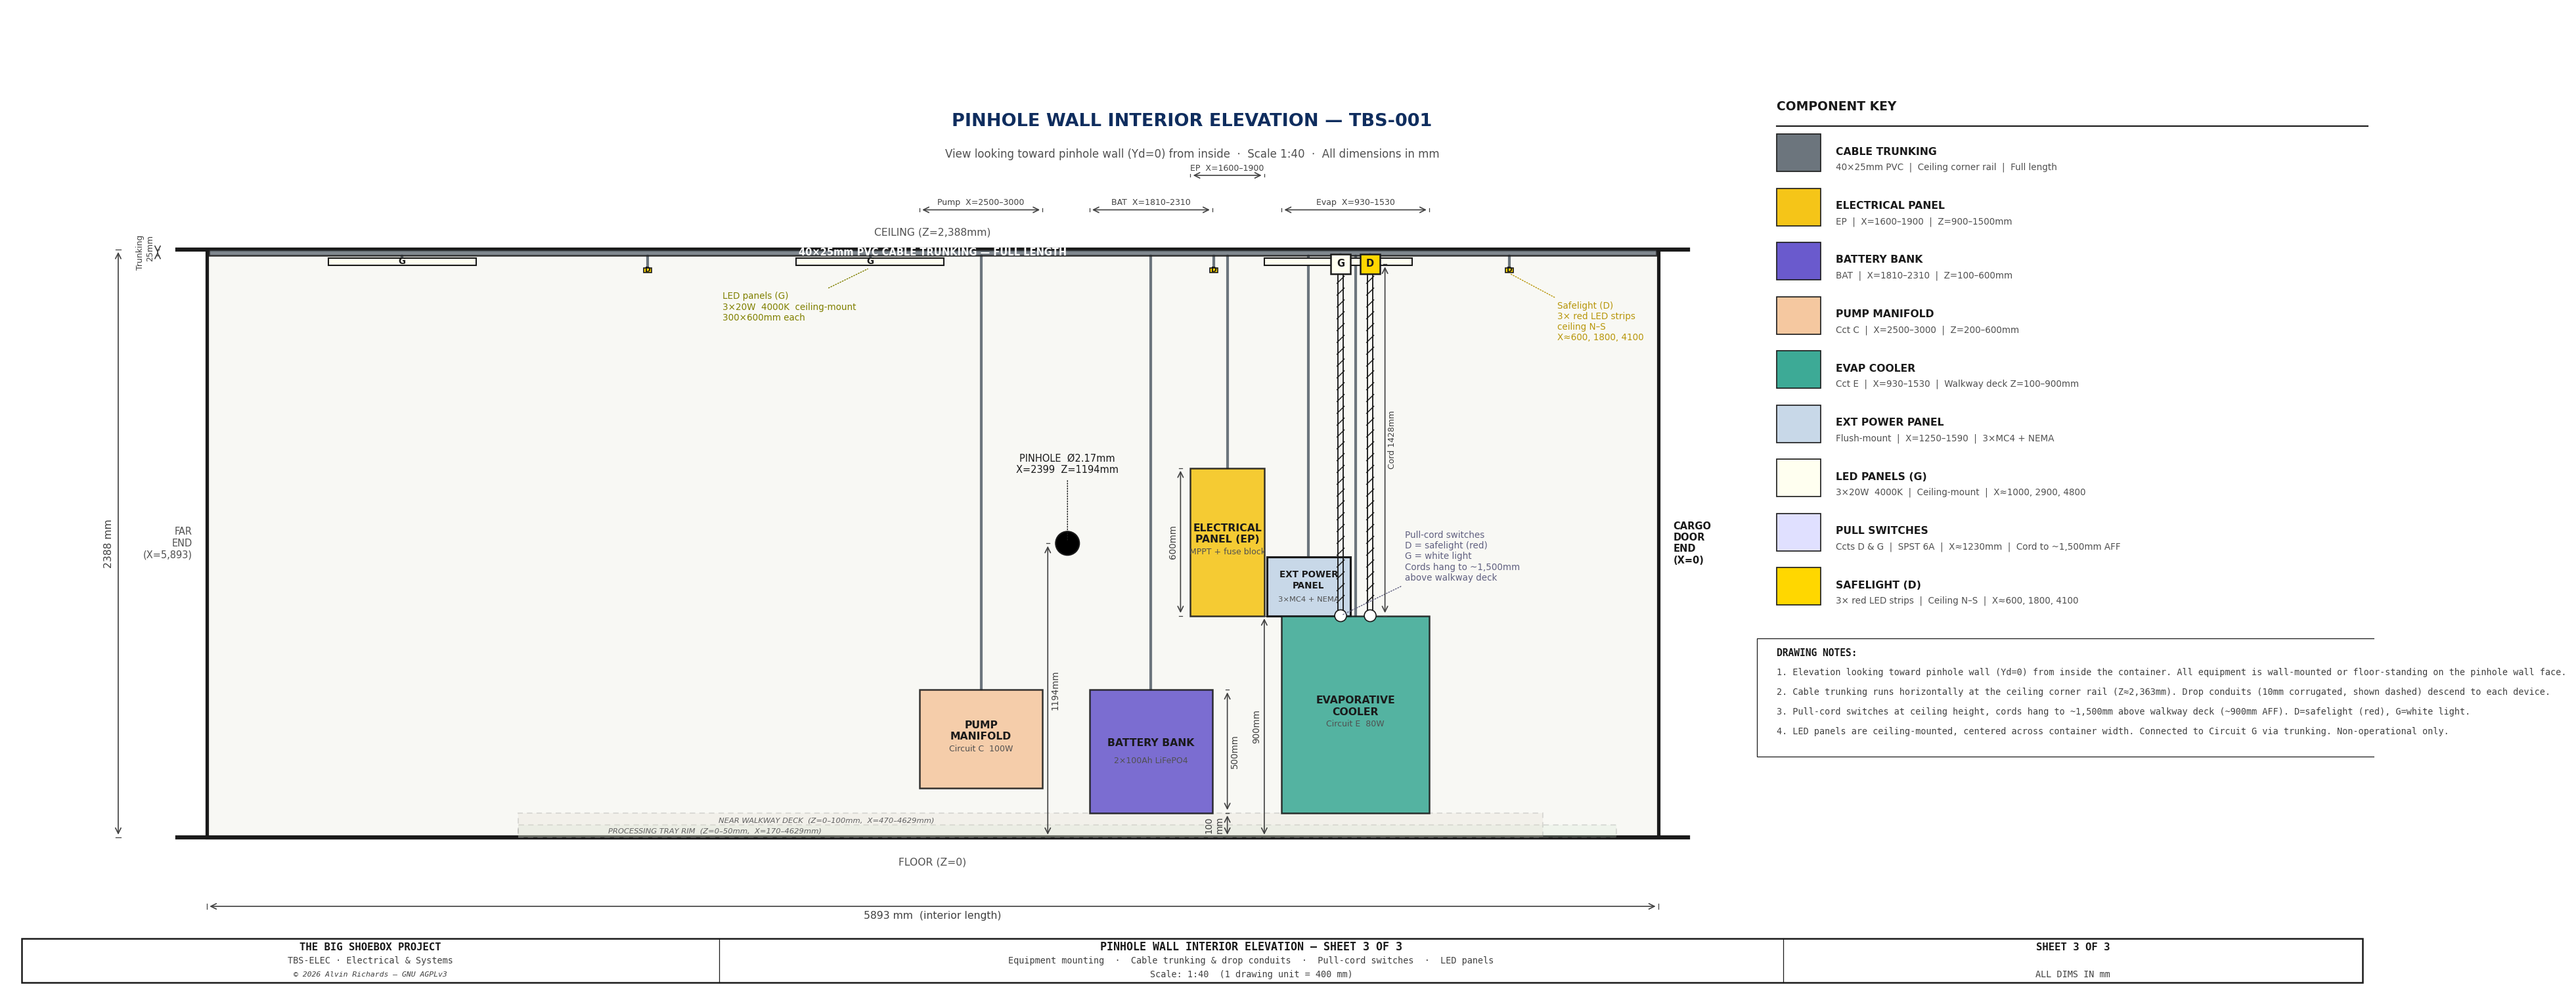
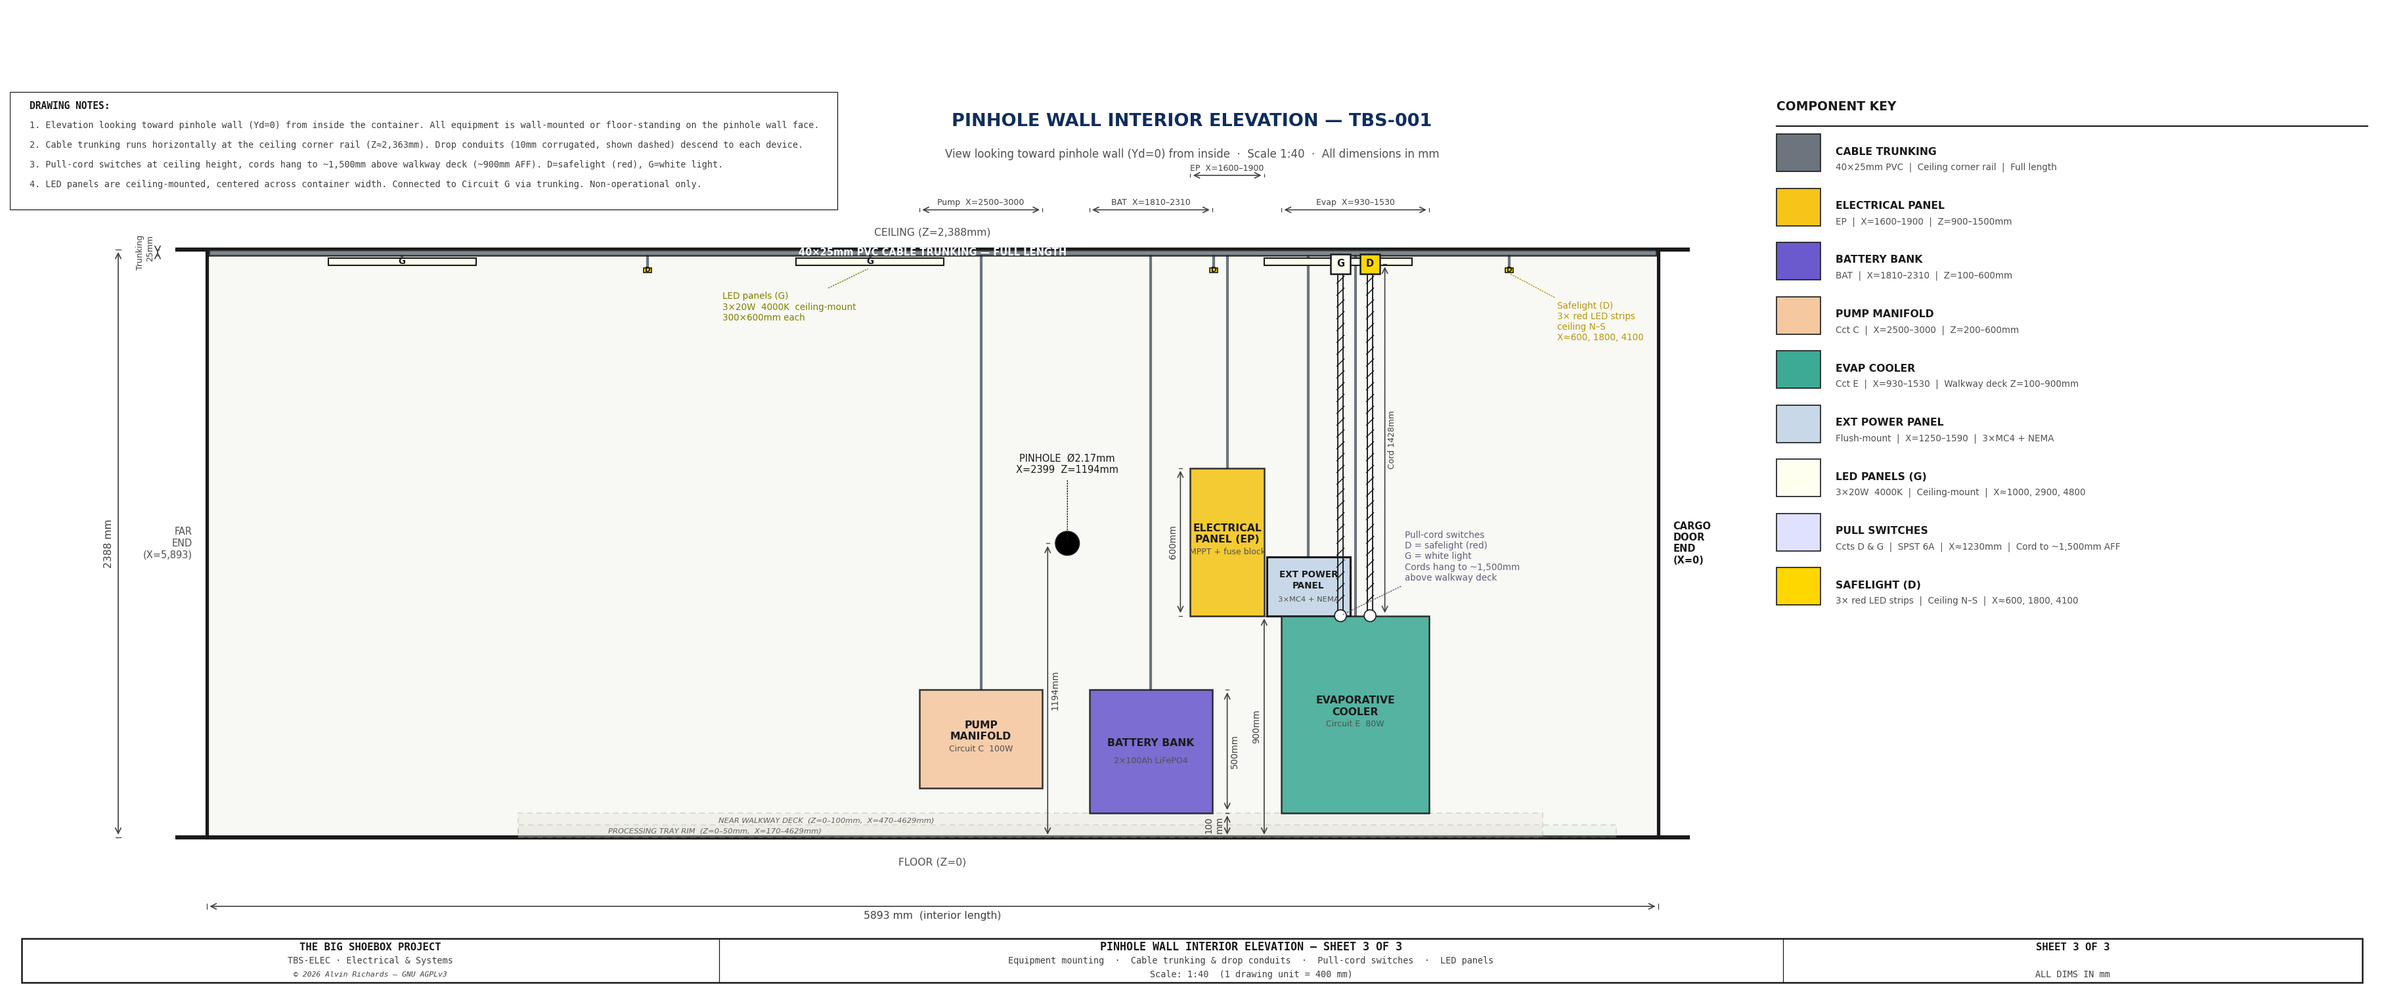
Tidy notes

diff --git a/generate_electrical_diagram.py b/generate_electrical_diagram.py
@@ -901,8 +901,8 @@ def draw_sheet2():
         "5. Circuit G (white LED panels) and Circuit D (safelight) are independently switched "
         "via pull-cord ceiling switches on the pinhole wall. White light must be off during operation.",
     ]
-    draw_notes(ax, notes, KX, 1.8, spacing=0.20,
-               fs=6.5, width=6.0, font={"fontfamily": "monospace"})
+    draw_notes(ax, notes, KX * 0.73, 1.85, spacing=0.18,
+               fs=6.5, width=11.0, font={"fontfamily": "monospace"})
 
     # ── Title block ───────────────────────────────────────────────────────────
     title_block(ax, "SHEET 2 OF 3",
@@ -1306,19 +1306,15 @@ def draw_sheet3():
     # ── Drawing notes ─────────────────────────────────────────────────────────
     notes = [
         "DRAWING NOTES:",
-        "1. Elevation looking toward pinhole wall (Yd=0) from inside the container. "
-        "All equipment is wall-mounted or floor-standing on the pinhole wall face.",
-        "2. Cable trunking runs horizontally at the ceiling corner rail (Z\u22482,363mm). "
-        "Drop conduits (10mm corrugated, shown dashed) descend to each device.",
-        "3. Pull-cord switches at ceiling height, cords hang to ~1,500mm above "
-        "walkway deck (~900mm AFF). D=safelight (red), G=white light.",
-        "4. LED panels are ceiling-mounted, centered across container width. "
-        "Connected to Circuit G via trunking. Non-operational only.",
+        "1. Elevation looking toward pinhole wall (Yd=0) from inside the container. All equipment is wall-mounted or floor-standing on the pinhole wall face.",
+        "2. Cable trunking runs horizontally at the ceiling corner rail (Z\u22482,363mm). Drop conduits (10mm corrugated, shown dashed) descend to each device.",
+        "3. Pull-cord switches at ceiling height, cords hang to ~1,500mm above walkway deck (~900mm AFF). D=safelight (red), G=white light.",
+        "4. LED panels are ceiling-mounted, centered across container width. Connected to Circuit G via trunking. Non-operational only.",
     ]
     key_bottom = KY - 0.25 - (len(key_items) - 1) * 0.55 - 0.30
     notes_y_top = key_bottom - 0.3
-    draw_notes(ax, notes, KX, notes_y_top, spacing=0.20,
-               fs=6.5, width=6.0, font={"fontfamily": "monospace"})
+    draw_notes(ax, notes, 0.2, KY + 0.3, spacing=0.20,
+               fs=6.5, width=8.0, font={"fontfamily": "monospace"})
 
     # ── Title block ───────────────────────────────────────────────────────────
     title_block(ax, "SHEET 3 OF 3",
